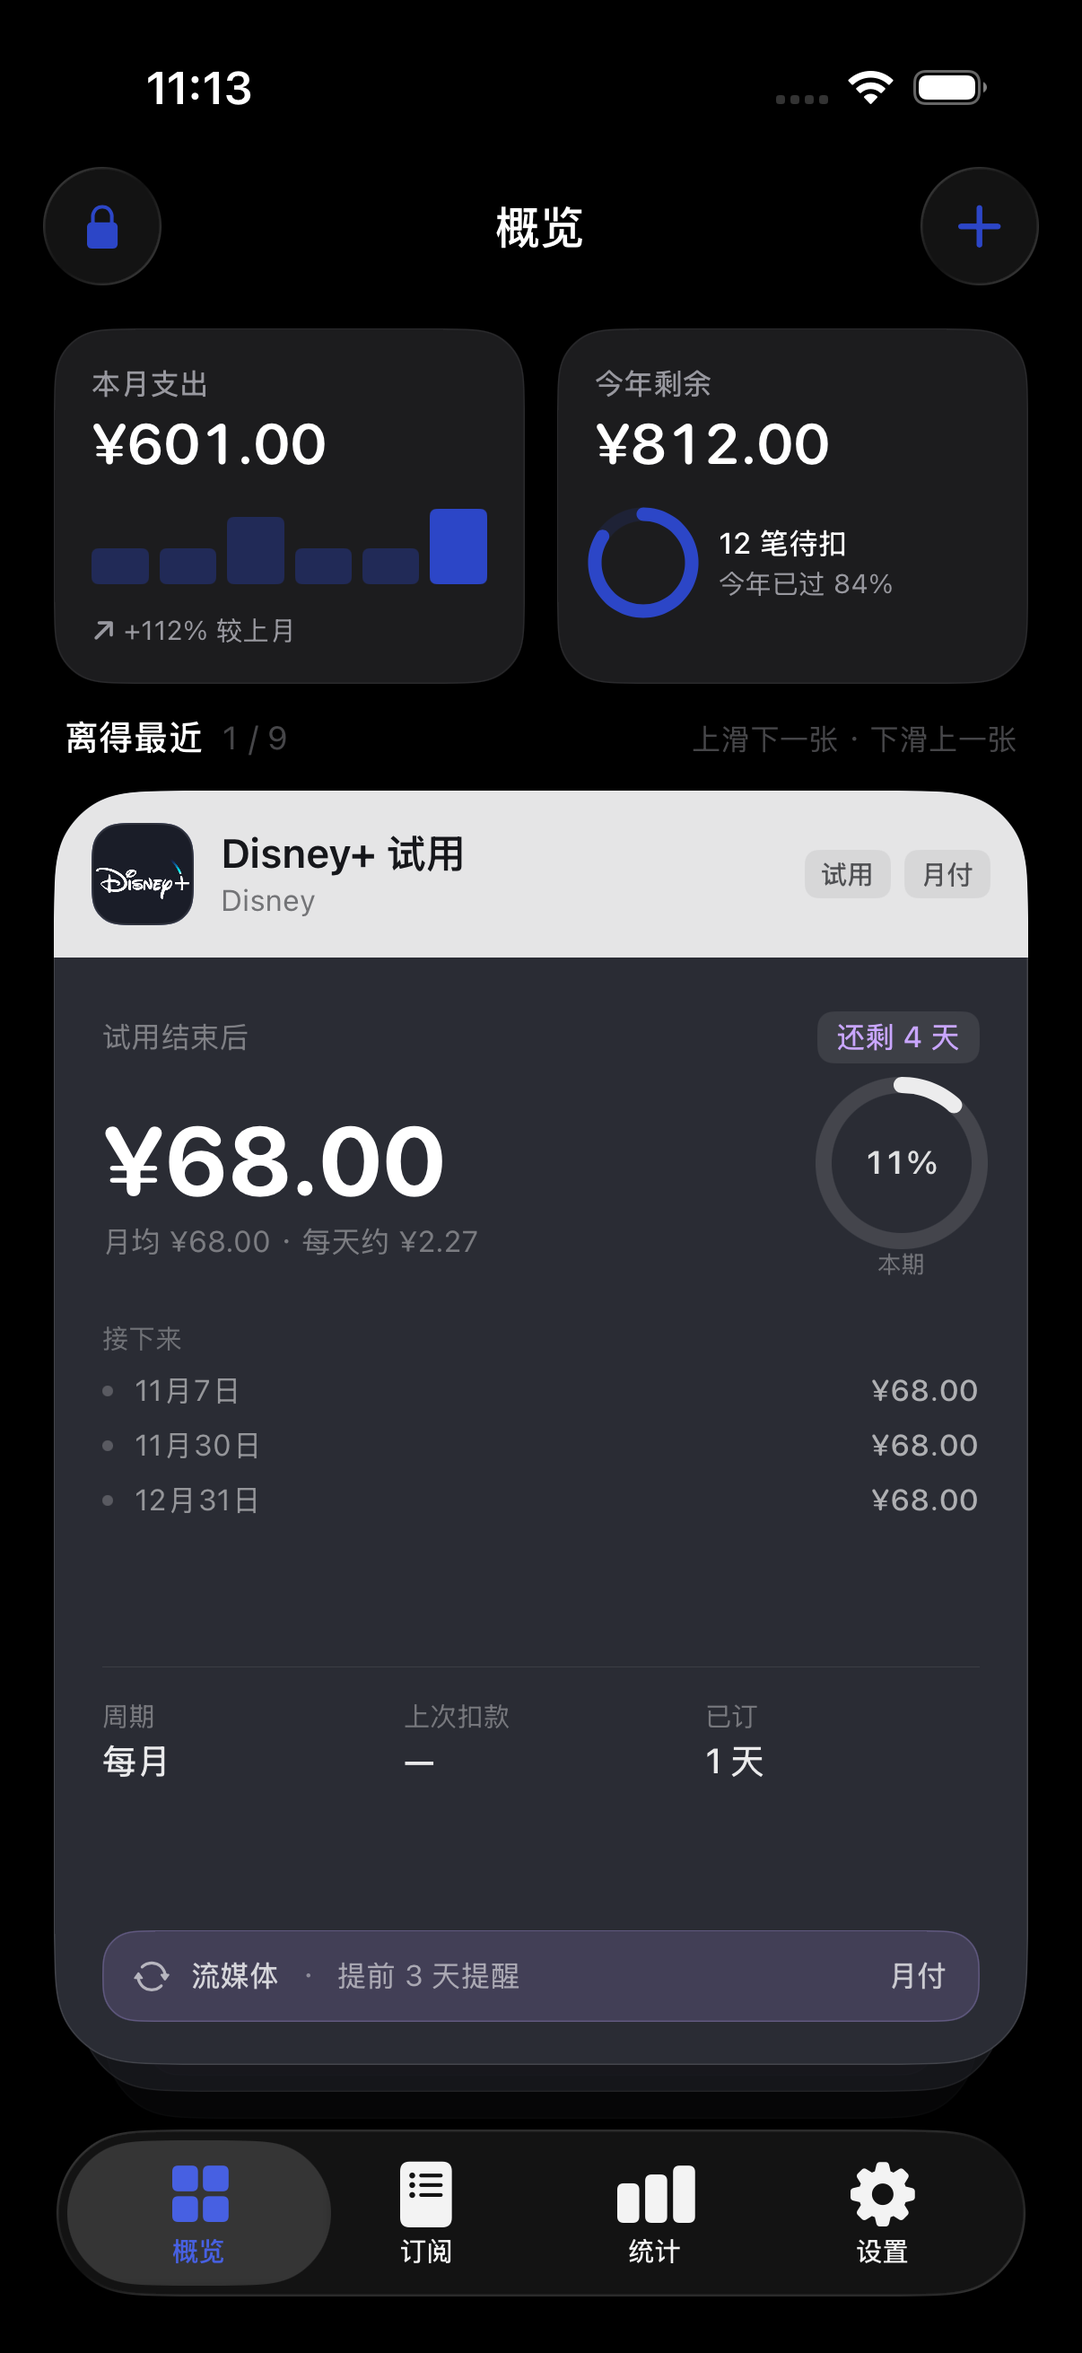
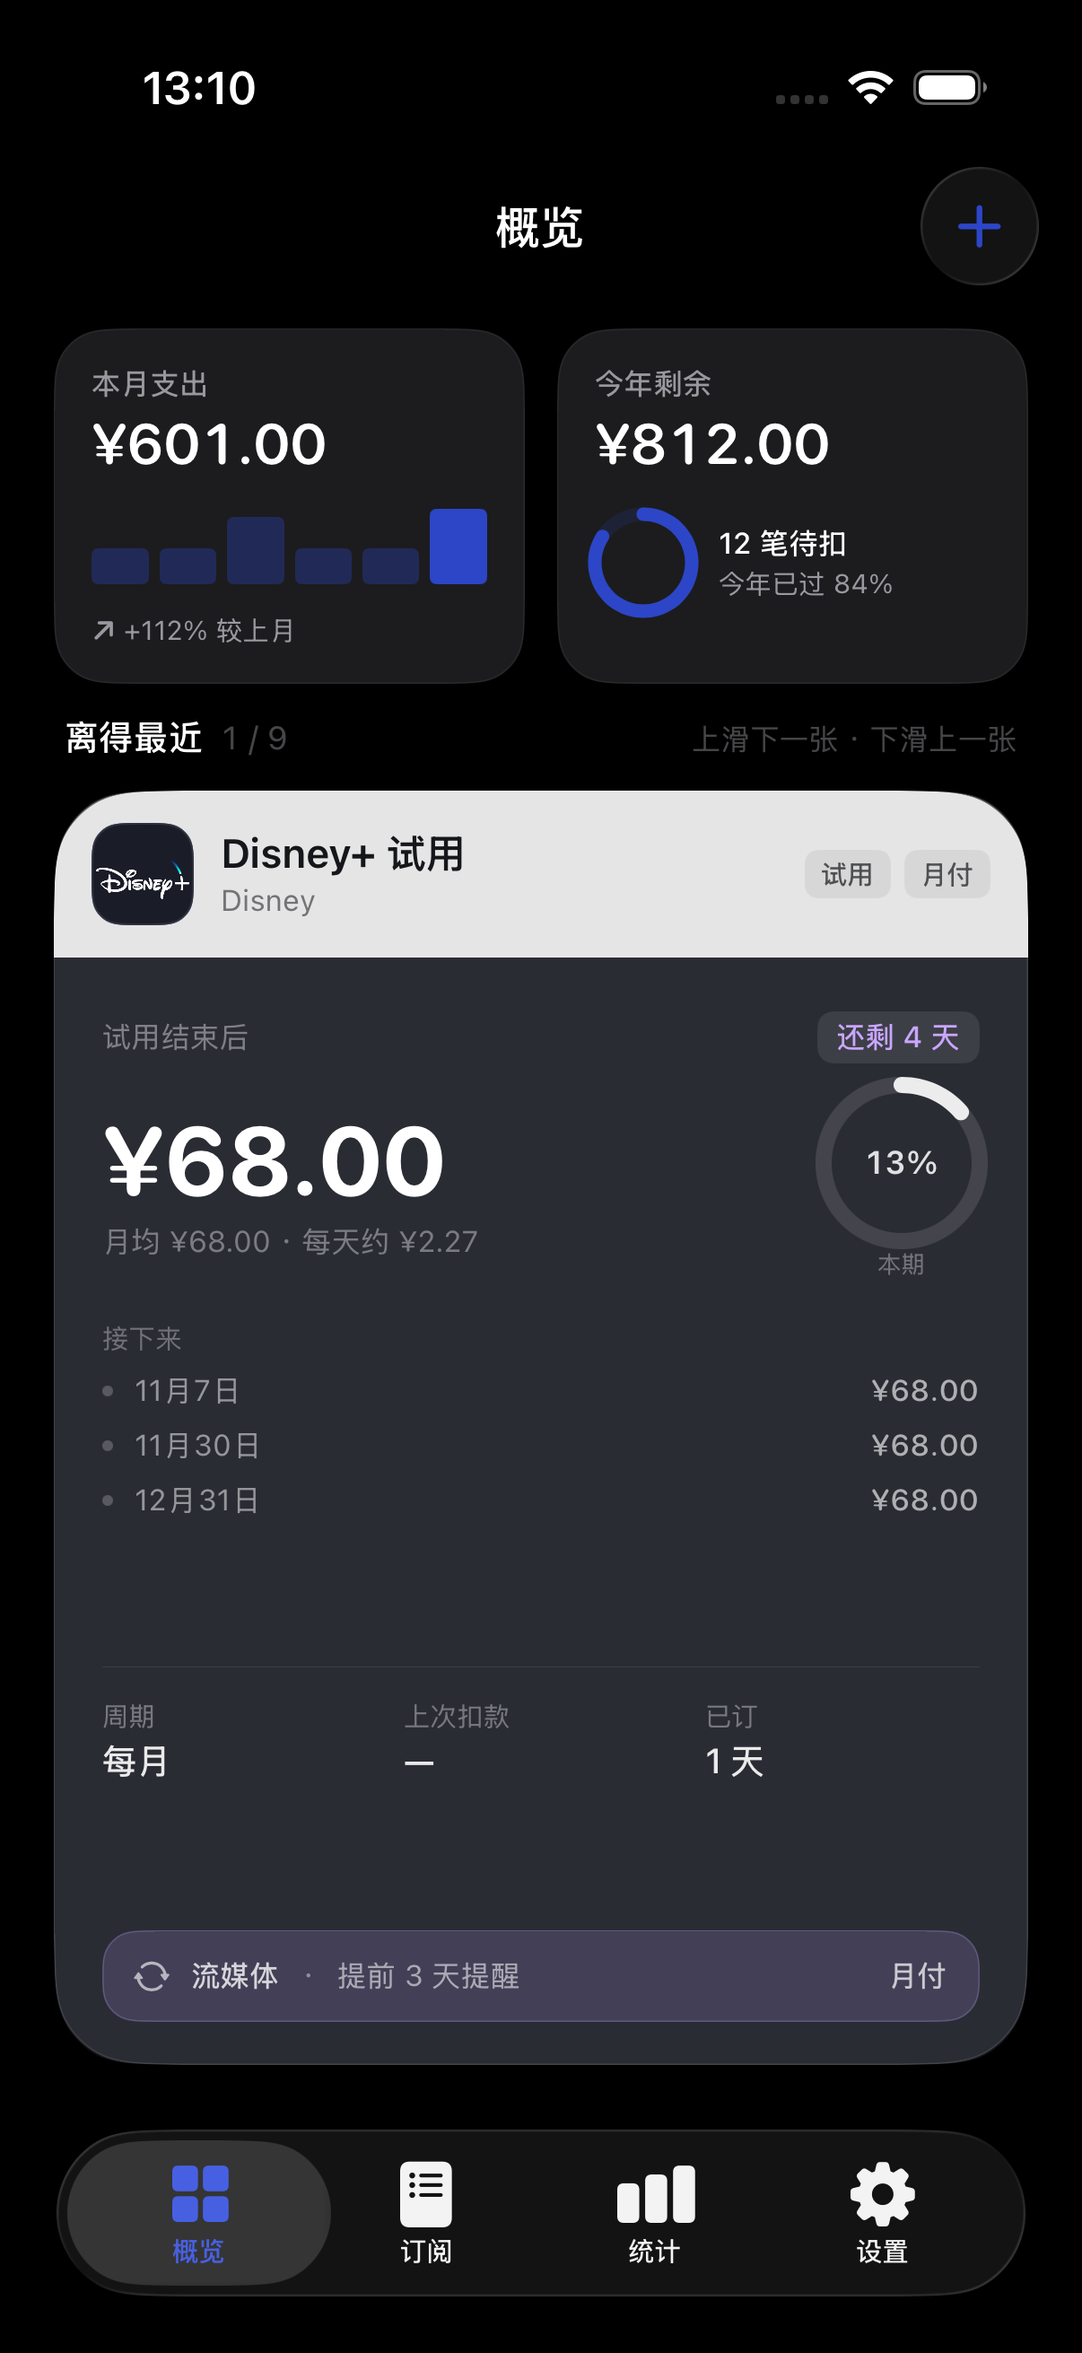
perf(home): 卡片叠改用 UIKit 直驱，滑动帧率提升到 120Hz
- SwiftUI @State position 每帧触发 body 重求值，ProMotion 屏只能 60Hz
- 改用 UIViewRepresentable + UIPanGestureRecognizer 直改 layer.transform（Core Animation 合成）
- 卡片内容仍是 SwiftUI（UIHostingController），拖动/翻页交给 UIKit
- 层级用 bringSubviewToFront，堆叠露边/下滑返回/压黑/圆角都补回

版本 1.3.0（build 15），56 单测全绿。

Changed region(s): [[0.092, 0.865, 0.8897, 0.8959], [0.1227, 0.0309, 0.2454, 0.0618], [0.0614, 0.0927, 0.1227, 0.1236]]

diff --git a/packages/WSubscriptionKit/Sources/WSFeatures/Dashboard/DashboardView.swift b/packages/WSubscriptionKit/Sources/WSFeatures/Dashboard/DashboardView.swift
@@ -162,119 +162,198 @@ public struct HomeView: View {
 
 // MARK: - 卡片叠
 
-/// 独立成一个视图，`position` 只在这里变，父视图（支出卡那部分）不会跟着每帧重算。
-/// 卡片用固定的 zIndex 和固定的窗口范围，翻页过程中不增删视图，所以不会闪。
-private struct SubscriptionDeck: View {
+/// 独立成一个视图。卡片叠用 UIKit 驱动：`UIPanGestureRecognizer` 每帧直接改 `layer.transform`
+/// （Core Animation 合成），绕过 SwiftUI 的视图 diff 管线，ProMotion 屏可跑满 120Hz。
+/// 卡片本身仍是 SwiftUI（`UIHostingController`），只是「拖动/翻页」这个高频操作交给 UIKit。
+@MainActor
+private struct SubscriptionDeck: UIViewRepresentable {
     let items: [Subscription]
     @Binding var index: Int
     let onSelect: (Subscription) -> Void
 
-    @Environment(\.colorScheme) private var colorScheme
-    @State private var position: CGFloat = 0
-    @State private var dragStart: CGFloat?
-    /// 后面的卡向下错开的距离：堆叠在底部露边
     private let stackGap: CGFloat = 10
 
-    var body: some View {
-        GeometryReader { proxy in
-            let height = max(300, proxy.size.height - stackGap * 2.4)
-            ZStack(alignment: .top) {
-                ForEach(visible, id: \.item.id) { entry in
-                    card(entry, height: height)
+    func makeCoordinator() -> Coordinator {
+        Coordinator(items: items, index: $index, onSelect: onSelect, stackGap: stackGap)
+    }
+
+    func makeUIView(context: Context) -> DeckView {
+        let view = DeckView(coordinator: context.coordinator)
+        view.rebuild()
+        return view
+    }
+
+    func updateUIView(_ view: DeckView, context: Context) {
+        view.coordinator.items = items
+        view.coordinator.onSelect = onSelect
+        view.coordinator.isDark = context.environment.colorScheme == .dark
+        view.rebuild()
+    }
+
+    // MARK: - UIKit 卡片叠视图
+
+    @MainActor
+    final class DeckView: UIView {
+        let coordinator: Coordinator
+        var cardViews: [(container: UIView, hosting: UIHostingController<SubscriptionDeckCard>, dimLayer: CALayer)] = []
+
+        init(coordinator: Coordinator) {
+            self.coordinator = coordinator
+            super.init(frame: .zero)
+            clipsToBounds = true
+            isMultipleTouchEnabled = false
+            backgroundColor = .clear
+
+            let pan = UIPanGestureRecognizer(target: coordinator, action: #selector(Coordinator.handlePan(_:)))
+            pan.maximumNumberOfTouches = 1
+            addGestureRecognizer(pan)
+        }
+        required init?(coder: NSCoder) { fatalError() }
+
+        override func layoutSubviews() {
+            super.layoutSubviews()
+            coordinator.cardHeight = max(300, bounds.height - coordinator.stackGap * 2.4)
+            applyTransforms(animated: false)
+        }
+
+        func rebuild() {
+            cardViews.forEach { $0.hosting.view.removeFromSuperview() }
+            cardViews = []
+            let indices = coordinator.visibleIndices
+            for i in indices {
+                let item = coordinator.items[i]
+                let card = SubscriptionDeckCard(subscription: item, isDark: coordinator.isDark)
+                let hosting = UIHostingController(rootView: card)
+                hosting.view.backgroundColor = .clear
+                let container = UIView()
+                container.backgroundColor = .clear
+                container.clipsToBounds = true
+                container.layer.cornerRadius = 32
+                container.layer.cornerCurve = .continuous
+                container.addSubview(hosting.view)
+                // 压黑层
+                let dim = CALayer()
+                dim.backgroundColor = UIColor.black.cgColor
+                dim.cornerRadius = 32
+                dim.cornerCurve = .continuous
+                dim.isHidden = true
+                container.layer.addSublayer(dim)
+                // 后面的卡先加（在下面），当前卡最后加（在上面）
+                addSubview(container)
+                cardViews.append((container, hosting, dim))
+            }
+            setNeedsLayout()
+            layoutIfNeeded()
+            // 点击进详情（只响应当前卡）
+            let tap = UITapGestureRecognizer(target: coordinator, action: #selector(Coordinator.handleTap(_:)))
+            addGestureRecognizer(tap)
+        }
+
+        /// 层级：用 subview 顺序表达（bringSubviewToFront）。
+        /// 上滑时当前卡最上；下滑返回时上一张升到最上。后面的卡按距离排在下面。
+        func arrangeZOrder() {
+            let current = coordinator.index.wrappedValue
+            let returning = coordinator.position < CGFloat(current)
+            // 先全部移到最底，再按「从后往前」的顺序叠上来
+            for entry in cardViews { sendSubviewToBack(entry.container) }
+            for (i, entry) in cardViews.enumerated() {
+                let itemIndex = coordinator.visibleIndices[i]
+                if itemIndex == current { bringSubviewToFront(entry.container) }
+                else if itemIndex == current - 1, returning { bringSubviewToFront(entry.container) }
+            }
+        }
+
+        func applyTransforms(animated: Bool, completion: ((Bool) -> Void)? = nil) {
+            let height = coordinator.cardHeight
+            let width = bounds.width
+            let gap = coordinator.stackGap
+            for (i, entry) in cardViews.enumerated() {
+                let itemIndex = coordinator.visibleIndices[i]
+                let d = CGFloat(itemIndex) - coordinator.position
+                let container = entry.container
+                container.frame = CGRect(x: 0, y: 0, width: width, height: height)
+                entry.hosting.view.frame = container.bounds
+                entry.dimLayer.frame = container.bounds
+
+                // scaleX / offsetY / opacity —— 全部写进 layer，Core Animation 合成
+                let scaleX = d >= 0 ? 1 - 0.05 * min(2, d) : 1
+                let offsetY: CGFloat = d >= 0 ? gap * d : d * height
+                let opacity = d >= 0 ? max(0.24, 1 - 0.42 * min(2, d)) : 1
+
+                let transform = CGAffineTransform(translationX: 0, y: offsetY)
+                    .scaledBy(x: scaleX, y: 1)
+                let animations = {
+                    container.layer.transform = CATransform3DMakeAffineTransform(transform)
+                    container.layer.opacity = Float(opacity)
+                    entry.hosting.view.layer.transform = CATransform3DIdentity
+                    entry.hosting.view.layer.opacity = 1
+                    // 后面的卡叠一层黑（d > 0）
+                    entry.dimLayer.isHidden = d <= 0
+                    entry.dimLayer.opacity = d > 0 ? Float(0.22 * min(2, d)) : 0
+                    // 层级：下滑返回时上一张在最上
+                    self.arrangeZOrder()
+                }
+                if animated {
+                    UIView.animate(withDuration: 0.36, delay: 0,
+                                   usingSpringWithDamping: 0.9,
+                                   initialSpringVelocity: 0,
+                                   options: [.allowUserInteraction, .beginFromCurrentState],
+                                   animations: animations, completion: completion)
+                } else {
+                    animations()
+                    completion?(true)
                 }
             }
-            .frame(maxWidth: .infinity, maxHeight: .infinity, alignment: .top)
-            .clipped()
-            .contentShape(Rectangle())
-            .gesture(dragGesture)
-            .onAppear { cardHeight = height }
-            .onChange(of: height) { _, newValue in cardHeight = newValue }
         }
     }
 
-    /// 窗口以已提交的 index 为基准：拖动与翻页动画过程中不增删视图。
-    private var visible: [(item: Subscription, index: Int)] {
-        guard !items.isEmpty else { return [] }
-        let lower = max(0, index - 1)
-        let upper = min(items.count - 1, index + 2)
-        guard lower <= upper else { return [] }
-        return (lower...upper).map { (items[$0], $0) }
-    }
+    // MARK: - Coordinator
 
-    private func card(_ entry: (item: Subscription, index: Int), height: CGFloat) -> some View {
-        let i = entry.index
-        // d 只由 position 决定：0 = 就位，正数 = 堆叠在下面，负数 = 已翻走
-        let d = CGFloat(i) - position
-        return SubscriptionDeckCard(subscription: entry.item, isDark: colorScheme == .dark)
-            .equatable()
-            .frame(height: height)
-            // 后面的卡逐渐淡出：整卡 opacity 只做 GPU 合成（卡片 body 已静态，不触发重算），
-            // 同时叠一层黑表达「在下面的层次」。两个都是纯合成，不掉帧。
-            .opacity(stackOpacity(d))
-            .overlay {
-                if d > 0 {
-                    RoundedRectangle(cornerRadius: 32, style: .continuous)
-                        .fill(.black.opacity(0.22 * Double(min(2, d))))
-                        .allowsHitTesting(false)
-                }
-            }
-            .scaleEffect(x: scaleX(d), y: 1, anchor: .top)
-            .offset(y: offset(d, height: height))
-            .zIndex(zIndex(for: i))
-            .allowsHitTesting(i == index)
-            .onTapGesture { if i == index { onSelect(entry.item) } }
-    }
+    @MainActor
+    final class Coordinator: NSObject {
+        var items: [Subscription]
+        var index: Binding<Int>
+        var onSelect: (Subscription) -> Void
+        let stackGap: CGFloat
 
-    // MARK: 变换：d 的单一连续函数（没有 index 分支，这是消除跳动的关键）
+        var isDark: Bool = false
+        var position: CGFloat = 0
+        var cardHeight: CGFloat = 420
+        private var dragStartPosition: CGFloat = 0
+        private var dragStartY: CGFloat = 0
 
-    /// 后面的卡逐个淡出：第一张 0.66，第二张 0.30，淡进背景，层次清晰。
-    private func stackOpacity(_ d: CGFloat) -> Double {
-        guard d > 0 else { return 1 }
-        return max(0.24, 1 - 0.42 * Double(min(2, d)))
-    }
+        init(items: [Subscription], index: Binding<Int>, onSelect: @escaping (Subscription) -> Void, stackGap: CGFloat) {
+            self.items = items
+            self.index = index
+            self.onSelect = onSelect
+            self.stackGap = stackGap
+        }
 
-    /// 堆叠中的卡只横向收窄（不缩高度）：
-    /// 高度不变 + 向下偏移，底部才能露出一条边；等比缩小会把露边抵消掉。
-    private func scaleX(_ d: CGFloat) -> CGFloat {
-        d >= 0 ? 1 - 0.05 * min(2, d) : 1
-    }
+        var visibleIndices: [Int] {
+            guard !items.isEmpty else { return [] }
+            let current = index.wrappedValue
+            let lower = max(0, current - 1)
+            let upper = min(items.count - 1, current + 2)
+            guard lower <= upper else { return [] }
+            return Array(lower...upper)
+        }
 
-    /// d >= 0：堆叠的卡向下错开 stackGap，底部露边；
-    /// d < 0：翻走的卡按 1:1 跟手向上飞出（d 每减 1，位移正好一整张卡高）。
-    private func offset(_ d: CGFloat, height: CGFloat) -> CGFloat {
-        d >= 0 ? stackGap * d : d * height
-    }
-
-    /// 正在往回翻（下滑，position 小于当前 index）时，从上方回来的那张卡必须盖在当前卡之上，
-    /// 否则它会从当前卡「下面」滑出来，看起来很奇怪。
-    /// 上滑时当前卡始终在最上，飞走后露出下一张。
-    private var returning: Bool { position < CGFloat(index) }
-
-    private func zIndex(for i: Int) -> Double {
-        if i == index { return returning ? 90 : 100 }
-        if i == index - 1 { return returning ? 110 : 80 }
-        if i < index { return 80 }
-        return Double(80 - (i - index))
-    }
-
-    // MARK: 手势
-
-    private var dragGesture: some Gesture {
-        DragGesture(minimumDistance: 0)
-            .onChanged { value in
-                if dragStart == nil { dragStart = position }
-                let start = dragStart ?? position
-                position = rubberBand(start - value.translation.height / max(1, cardHeight))
-            }
-            .onEnded { value in
-                let start = dragStart ?? position
-                dragStart = nil
-
-                // 位移过卡片高度的 18%，或快速一甩（预测过 45%）才翻页
-                let translation = -value.translation.height / max(1, cardHeight)
-                let predicted = -value.predictedEndTranslation.height / max(1, cardHeight)
-                let base = start.rounded()
-
+        @objc func handlePan(_ gesture: UIPanGestureRecognizer) {
+            guard let view = gesture.view as? DeckView else { return }
+            switch gesture.state {
+            case .began:
+                dragStartPosition = position
+                dragStartY = gesture.translation(in: view).y
+            case .changed:
+                let dy = gesture.translation(in: view).y - dragStartY
+                let delta = -dy / max(1, cardHeight)
+                position = rubberBand(dragStartPosition + delta)
+                view.applyTransforms(animated: false)
+            case .ended, .cancelled:
+                let translation = -gesture.translation(in: view).y / max(1, cardHeight)
+                let velocity = gesture.velocity(in: view).y
+                let predicted = -velocity * 0.25 / max(1, cardHeight)
+                let base = dragStartPosition.rounded()
                 var target = base
                 if translation > 0.18 || predicted > 0.45 {
                     target = base + 1
@@ -282,26 +361,37 @@ private struct SubscriptionDeck: View {
                     target = base - 1
                 }
                 target = min(max(0, target), CGFloat(max(0, items.count - 1)))
+                position = target
+                view.applyTransforms(animated: true) { _ in
+                    let settled = Int(self.position.rounded())
+                    if settled != self.index.wrappedValue {
+                        DispatchQueue.main.async { self.index.wrappedValue = settled }
+                    }
+                }
+            default:
+                break
+            }
+        }
 
-                withAnimation(.spring(response: 0.36, dampingFraction: 0.9)) {
-                    position = target
-                } completion: {
-                    // index 只在动画彻底落位后提交：
-                    // 窗口、层级、页码计数都不在拖动中途变化
-                    let settled = Int(position.rounded())
-                    if settled != index { index = settled }
+        @objc func handleTap(_ gesture: UITapGestureRecognizer) {
+            let point = gesture.location(in: gesture.view)
+            guard let view = gesture.view as? DeckView else { return }
+            // 只响应当前卡
+            let current = index.wrappedValue
+            for (i, entry) in view.cardViews.enumerated() where visibleIndices[i] == current {
+                if entry.container.frame.contains(point) {
+                    onSelect(items[current])
+                    return
                 }
             }
-    }
+        }
 
-    /// 手指位移换算成 position 的基准高度（拖动开始时记一次）
-    @State private var cardHeight: CGFloat = 420
-
-    private func rubberBand(_ value: CGFloat) -> CGFloat {
-        let maxIndex = CGFloat(max(0, items.count - 1))
-        if value < 0 { return value * 0.28 }
-        if value > maxIndex { return maxIndex + (value - maxIndex) * 0.28 }
-        return value
+        private func rubberBand(_ value: CGFloat) -> CGFloat {
+            let maxIndex = CGFloat(max(0, items.count - 1))
+            if value < 0 { return value * 0.28 }
+            if value > maxIndex { return maxIndex + (value - maxIndex) * 0.28 }
+            return value
+        }
     }
 }
 

diff --git a/docs/开发方案.md b/docs/开发方案.md
@@ -1189,3 +1189,12 @@ iOS 26 的选择器只对**可写目录**启用「打开」；再叠加侧载签
 **日期年份**：新增 `WSDate.monthDayWithYear()`——同年只显示月日、跨年带年份。应用到主页卡片（接下来/上次扣款/倒计时）与订阅页列表行（下次扣款）。
 
 **不默认启用解锁（只加密库）**：主密钥 MK 建库后存入钥匙串，启动静默解密进入主界面，不再弹锁屏/输密码。库文件在磁盘仍是密文。密码/Face ID/自动锁定从默认流程移除（设置里安全区只显示「存储加密」）。导入备份需输入那份备份的密码。
+
+### 17.20 滑动帧率优化到 120Hz（v1.3.0）
+
+SwiftUI 的 `@State position` 每帧更新会触发整个 `SubscriptionDeck.body` 重新求值，这是 SwiftUI 手势驱动的固有限制，ProMotion 屏只能到 60Hz 左右。改用 `UIViewRepresentable` 把「拖动/翻页」这个高频操作交给 UIKit：
+
+- 卡片本身仍是 SwiftUI（`UIHostingController` 承载 `SubscriptionDeckCard`，内容不变）。
+- 拖动用 `UIPanGestureRecognizer`，每帧直接写 `container.layer.transform`（translationY + scaleX）和 `layer.opacity`，全部 Core Animation 合成，不经过 SwiftUI diff。
+- 松手用 `UIView.animate(usingSpringWithDamping:)` 做弹簧回弹，index 在 completion 里提交。
+- 层级改用 `bringSubviewToFront`（比 `layer.zPosition` 更可靠），堆叠露边、下滑返回层级、压黑层、圆角裁剪都在 UIKit 层补回。
